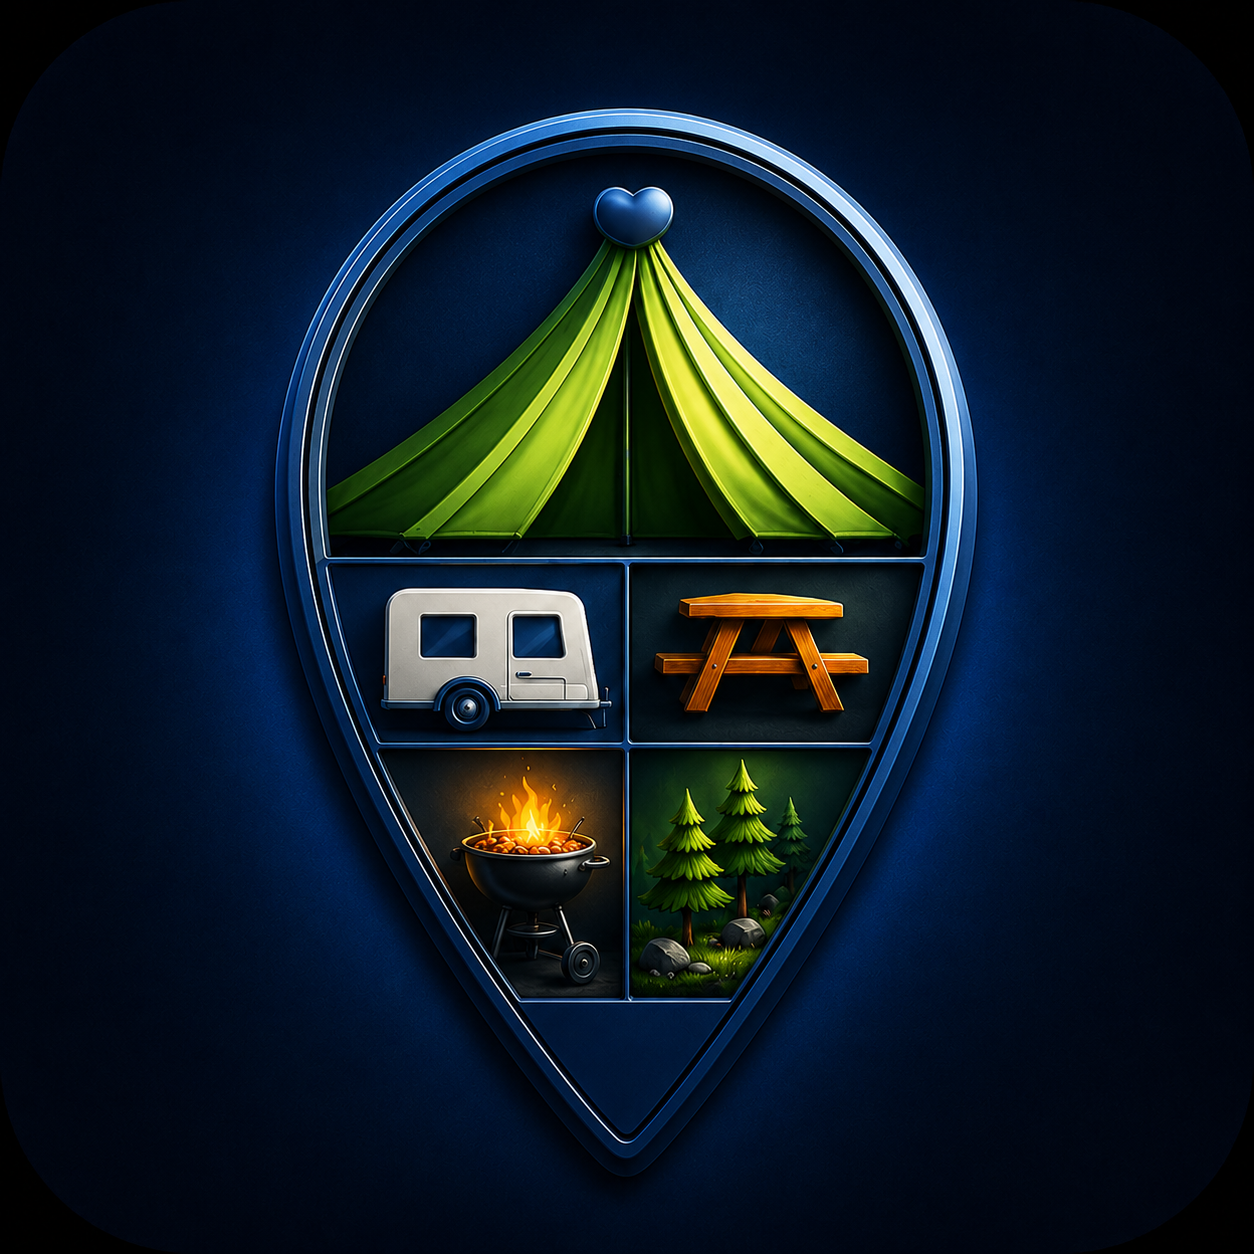
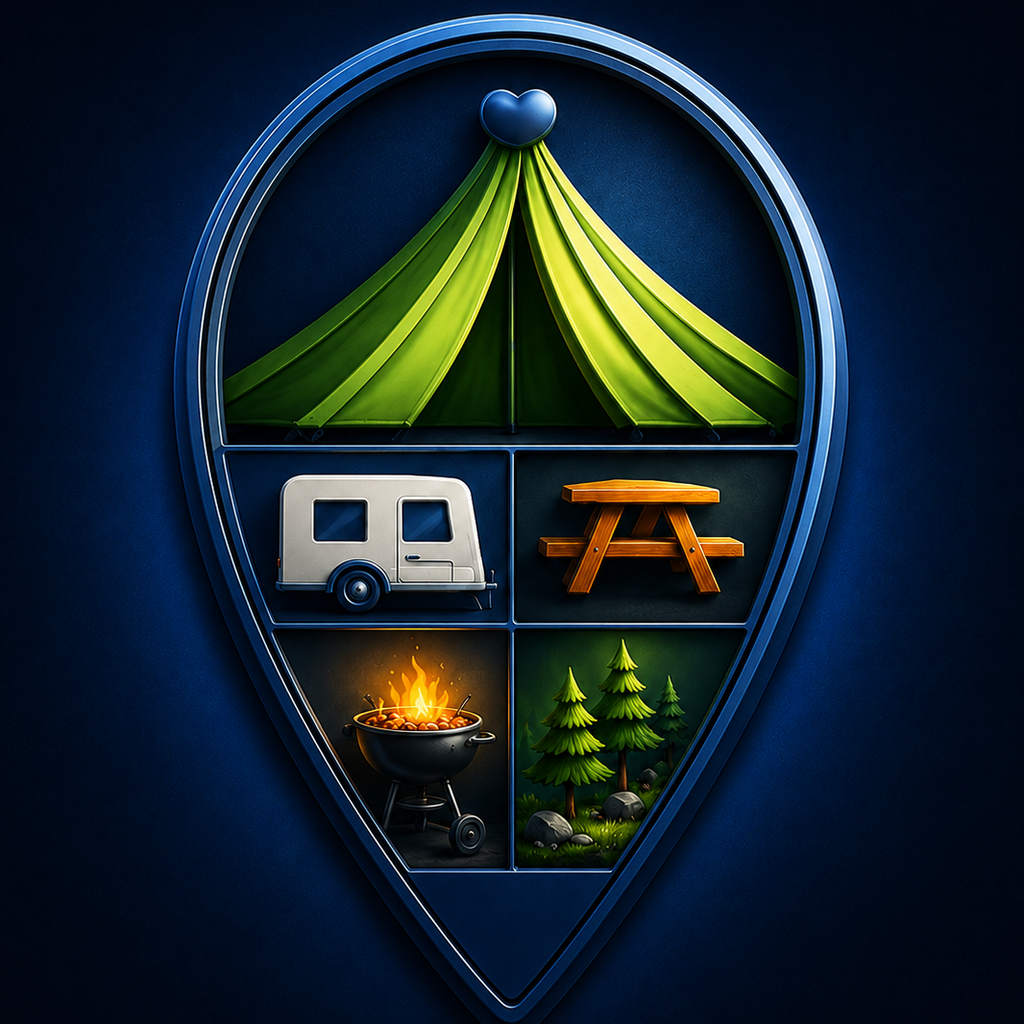
Gerçek marka görsellerinden platform varlıklarını türet

diff --git a/apps/mobile/assets/brand/generate.py b/apps/mobile/assets/brand/generate.py
@@ -1,71 +1,126 @@
-"""Campulator marka varlıklarını üretir (pin + çadır + hesap makinesi tuşları)."""
+"""
+Marka varlıklarını kaynak dosyalardan türetir.
+
+Kaynaklar (tasarımdan gelen, elle güncellenen dosyalar):
+  source/icon-art.png    Kare ikon çalışması (opak, köşeleri yuvarlatılmış)
+  source/wordmark.png    Pin + "Campulator" yazısı (şeffaf zeminli)
+
+Üretilenler (koda bağlı, elle düzenlenmemeli):
+  icon.png, adaptive-icon.png, splash-icon.png, logo.png, favicon.png
+
+Çalıştırma:
+  cd apps/mobile/assets/brand && python3 generate.py
+"""
+
 import os
-from PIL import Image, ImageDraw
 
-NAVY = (30, 58, 95)
-ELEVATED = (18, 35, 56)
-BACKGROUND = (8, 19, 31)
-PRIMARY = (120, 192, 67)
-PRIMARY_BRIGHT = (142, 209, 79)
-TEXT = (244, 247, 250)
+from PIL import Image
 
-SS = 4  # supersampling
+HERE = os.path.dirname(os.path.abspath(__file__))
+SRC = os.path.join(HERE, 'source')
+
+# Tema paleti (src/theme/tokens.ts ile aynı)
+BACKGROUND = (8, 19, 31, 255)
+
+# Kaynak ikon çalışmasının köşeleri yuvarlatılmış olduğu için kenarlardan
+# bu oranda kırpılır; aksi halde iOS maskesi altında siyah köşeler görünür.
+CORNER_TRIM = 0.075
 
 
-def draw_logo(size, pad_ratio=0.0, bg=None):
-    """viewBox 0 0 100 125 tabanlı logoyu kare tuvale ortalar."""
-    S = size * SS
-    img = Image.new("RGBA", (S, S), bg if bg else (0, 0, 0, 0))
-    d = ImageDraw.Draw(img)
+def load(name):
+    path = os.path.join(SRC, name)
+    if not os.path.exists(path):
+        raise SystemExit(f'Kaynak dosya yok: {path}')
+    return Image.open(path).convert('RGBA')
 
-    inner = S * (1 - 2 * pad_ratio)
-    scale = inner / 125.0
-    ox = (S - 100 * scale) / 2
-    oy = (S - 125 * scale) / 2
 
-    def p(x, y):
-        return (ox + x * scale, oy + y * scale)
+def trimmed_art():
+    """İkon çalışmasını yuvarlak köşelerinden arındırıp kare döner."""
+    art = load('icon-art.png')
+    w, h = art.size
+    dx, dy = int(w * CORNER_TRIM), int(h * CORNER_TRIM)
+    art = art.crop((dx, dy, w - dx, h - dy))
+    side = min(art.size)
+    left = (art.size[0] - side) // 2
+    top = (art.size[1] - side) // 2
+    return art.crop((left, top, left + side, top + side))
 
-    def poly(points, fill):
-        d.polygon([p(x, y) for x, y in points], fill=fill)
 
-    def pin(inset, fill):
-        """Pin silueti: daire + aşağı doğru uç, tek parça."""
-        d.ellipse([p(6 + inset, 4 + inset), p(94 - inset, 92 - inset)], fill=fill)
-        poly([(20 + inset, 68), (80 - inset, 68), (50, 121 - inset * 1.4)], fill)
+def opaque_square(art, size, scale=1.0):
+    """Opak lacivert zemin üzerine ortalanmış kare varlık."""
+    canvas = Image.new('RGBA', (size, size), BACKGROUND)
+    inner = int(size * scale)
+    canvas.alpha_composite(art.resize((inner, inner), Image.LANCZOS), ((size - inner) // 2,) * 2)
+    return canvas.convert('RGB')
 
-    pin(0, ELEVATED)  # ince dış çerçeve
-    pin(3, NAVY)  # gövde
-    d.ellipse([p(15, 13), p(85, 83)], fill=BACKGROUND)  # iç disk
 
-    # Çadır
-    poly([(50, 18), (22, 52), (78, 52)], PRIMARY)
-    poly([(50, 18), (36, 52), (64, 52)], PRIMARY_BRIGHT)
-    poly([(50, 30), (42, 52), (58, 52)], BACKGROUND)
+def transparent_square(art, size, scale=1.0):
+    """Şeffaf tuval üzerine ortalanmış varlık (adaptif ikon ön katmanı)."""
+    canvas = Image.new('RGBA', (size, size), (0, 0, 0, 0))
+    inner = int(size * scale)
+    canvas.alpha_composite(art.resize((inner, inner), Image.LANCZOS), ((size - inner) // 2,) * 2)
+    return canvas
 
-    # Hesap makinesi tuşları
-    r = max(1, int(2 * scale))
-    for x, y in ((32, 56), (52, 56), (32, 68), (52, 68)):
-        d.rounded_rectangle([p(x, y), p(x + 16, y + 9)], radius=r, fill=TEXT)
 
-    return img.resize((size, size), Image.LANCZOS)
+def alpha_bbox(image, threshold=60):
+    """Hafif parlama piksellerini saymadan görünür alanın sınırları."""
+    mask = image.getchannel('A').point(lambda v: 255 if v > threshold else 0)
+    return mask.getbbox()
+
+
+def first_gap_column(mask, start):
+    """Pin ile yazı arasındaki boş sütun aralığının başlangıcını bulur."""
+    px = mask.load()
+    width, height = mask.size
+    run = 0
+    for x in range(start, width):
+        empty = all(px[x, y] == 0 for y in range(height))
+        run = run + 1 if empty else 0
+        if run >= 20:
+            return x - run + 1
+    return width
+
+
+def pin_from_wordmark():
+    """Wordmark'ın solundaki pini yazıdan ayırıp şeffaf zeminle keser."""
+    mark = load('wordmark.png')
+    mask = mark.getchannel('A').point(lambda v: 255 if v > 60 else 0)
+    box = mask.getbbox()
+    if not box:
+        raise SystemExit('Wordmark içinde içerik bulunamadı')
+    # Yazı pinin hemen sağında başladığı için sabit yarı kesme yetmez
+    split = first_gap_column(mask, box[0] + 40)
+    pin = mark.crop((box[0], box[1], split, box[3]))
+
+    # Kare tuvale ortala (uygulama içi logo kare kullanılıyor)
+    side = max(pin.size)
+    square = Image.new('RGBA', (side, side), (0, 0, 0, 0))
+    square.alpha_composite(pin, ((side - pin.size[0]) // 2, (side - pin.size[1]) // 2))
+    return square
 
 
 def main():
-    out = os.path.join(os.path.dirname(__file__), "brand")
-    os.makedirs(out, exist_ok=True)
+    art = trimmed_art()
 
-    # App Store / Play ikonu: opak zemin zorunlu (şeffaflık reddedilir)
-    draw_logo(1024, pad_ratio=0.10, bg=BACKGROUND + (255,)).save(f"{out}/icon.png")
-    # Android adaptive: güvenli alan için daha fazla boşluk, şeffaf zemin
-    draw_logo(1024, pad_ratio=0.22).save(f"{out}/adaptive-icon.png")
-    # Splash: şeffaf, ortada
-    draw_logo(1024, pad_ratio=0.18).save(f"{out}/splash-icon.png")
-    # Uygulama içi logo (şeffaf)
-    draw_logo(512, pad_ratio=0.04).save(f"{out}/logo.png")
+    # iOS/Android mağaza ikonu: opak, kenardan kenara
+    opaque_square(art, 1024).save(os.path.join(HERE, 'icon.png'))
+
+    # Android adaptif ikon: ön katman şeffaf olmalı (zemin app.json'da tanımlı),
+    # dış alan kırpılabildiği için pin güvenli alana sığacak şekilde küçültülür
+    transparent_square(pin_from_wordmark(), 1024, scale=0.62).save(
+        os.path.join(HERE, 'adaptive-icon.png')
+    )
+
     # Web favicon
-    draw_logo(48, pad_ratio=0.06, bg=BACKGROUND + (255,)).save(f"{out}/favicon.png")
-    print("üretildi:", sorted(os.listdir(out)))
+    opaque_square(art, 64).save(os.path.join(HERE, 'favicon.png'))
+
+    # Pin, şeffaf zeminde. Wordmark'taki "Campulator" yazısı koyu lacivert
+    # olduğu için koyu açılış ekranında okunmuyor; splash'te de pin kullanılır.
+    pin = pin_from_wordmark()
+    pin.resize((1024, 1024), Image.LANCZOS).save(os.path.join(HERE, 'splash-icon.png'))
+    pin.resize((512, 512), Image.LANCZOS).save(os.path.join(HERE, 'logo.png'))
+
+    print('Üretildi:', ', '.join(sorted(f for f in os.listdir(HERE) if f.endswith('.png'))))
 
 
 main()

diff --git a/apps/mobile/assets/brand/README.md b/apps/mobile/assets/brand/README.md
@@ -1,49 +1,51 @@
 # Marka Görselleri
 
-## Gerçek logoları nereye koymalı
+## Nasıl güncellenir
 
-Bu klasöre (`apps/mobile/assets/brand/`) **aşağıdaki tablodaki adlarla** koyun ve
-mevcut dosyaların üzerine yazın. Kod bu adlara bağlı olduğu için başka hiçbir
-değişiklik gerekmez — `app.json` ve `BrandLogo.tsx` olduğu gibi çalışmaya devam eder.
+Tasarımdan gelen dosyalar **`source/` klasörüne** konur; kullanılan varlıklar
+`generate.py` ile bunlardan türetilir. Kök klasördeki PNG'ler üretim çıktısıdır,
+elle düzenlenmemelidir.
 
-```bash
-# örnek: masaüstündeki dosyaları yerleştirme
-cp ~/Desktop/campulator-icon.png   apps/mobile/assets/brand/icon.png
-cp ~/Desktop/campulator-logo.png   apps/mobile/assets/brand/logo.png
-git add apps/mobile/assets/brand && git commit -m "Gerçek marka görselleri" && git push
-```
-
-Sonrasında Metro'yu `--clear` ile yeniden başlatın (varlıklar önbelleğe alınır).
-Elinizde yalnızca tek bir kare logo varsa onu `logo.png` olarak koymanız yeterli;
-kalan boyutlar `generate.py` yerine bu dosyadan türetilebilir.
-
-## Dosyalar
-
-| Dosya                | Kullanım                            | Boyut     | Zemin  |
-| -------------------- | ----------------------------------- | --------- | ------ |
-| `icon.png`           | iOS/Android uygulama ikonu          | 1024×1024 | Opak   |
-| `adaptive-icon.png`  | Android adaptif ikon ön katmanı     | 1024×1024 | Şeffaf |
-| `splash-icon.png`    | Açılış ekranı görseli               | 1024×1024 | Şeffaf |
-| `logo.png`           | Uygulama içi logo (`BrandLogo.tsx`) | 512×512   | Şeffaf |
-| `favicon.png`        | Web favicon                         | 48×48     | Opak   |
-
-Bu dosyalar `app.json` içindeki `icon`, `splash.image`, `android.adaptiveIcon`
-ve `web.favicon` alanlarına bağlıdır.
-
-## Yeniden üretme
-
-Görseller `generate.py` ile vektörel tanımdan üretiliyor (Pillow gerektirir):
+| Kaynak dosya           | İçerik                                              |
+| ---------------------- | --------------------------------------------------- |
+| `source/icon-art.png`  | Kare ikon çalışması (opak zemin, köşeler yuvarlak)  |
+| `source/wordmark.png`  | Pin + "Campulator" yazısı, **şeffaf zeminli**       |
 
 ```bash
+# yeni tasarım dosyalarını yerleştir
+cp ~/Desktop/yeni-ikon.png     apps/mobile/assets/brand/source/icon-art.png
+cp ~/Desktop/yeni-wordmark.png apps/mobile/assets/brand/source/wordmark.png
+
+# varlıkları yeniden üret (Pillow gerekir: pip install pillow)
 cd apps/mobile/assets/brand && python3 generate.py
 ```
 
-Renkler `src/theme/tokens.ts` paletiyle birebir aynıdır. Tasarımcıdan gelen
-gerçek dosyalar elde edildiğinde aynı adlarla üzerine yazmak yeterlidir;
-`app.json` değişikliği gerekmez.
+Sonrasında Metro'yu `--clear` ile yeniden başlatın.
 
-## Notlar
+## Üretilen dosyalar
 
-- iOS ikonu **şeffaf olamaz**; `icon.png` opak lacivert zeminle üretilir.
-- Android adaptif ikonda dış %22'lik alan kırpılabilir; `adaptive-icon.png`
-  bu güvenli alan payıyla üretilmiştir.
+| Dosya               | Kullanım                            | Boyut     | Zemin  |
+| ------------------- | ----------------------------------- | --------- | ------ |
+| `icon.png`          | iOS/Android uygulama ikonu          | 1024×1024 | Opak   |
+| `adaptive-icon.png` | Android adaptif ikon ön katmanı     | 1024×1024 | Şeffaf |
+| `splash-icon.png`   | Açılış ekranı görseli               | 1024×1024 | Şeffaf |
+| `logo.png`          | Uygulama içi logo (`BrandLogo.tsx`) | 512×512   | Şeffaf |
+| `favicon.png`       | Web favicon                         | 64×64     | Opak   |
+
+Bunlar `app.json` içindeki `icon`, `splash.image`, `android.adaptiveIcon` ve
+`web.favicon` alanlarına bağlıdır; dosya adları değişmediği sürece `app.json`
+düzenlenmez.
+
+## Üretim kuralları (neden ham dosyalar doğrudan kullanılmıyor)
+
+- **iOS ikonu şeffaf olamaz** ve köşe yuvarlatmasını sistem kendisi uygular.
+  Kaynak çalışmanın kendi yuvarlak köşeleri kırpılır, aksi halde maskeden sonra
+  siyah köşe artıkları görünür.
+- **Android adaptif ikonun** dış alanı cihaza göre daire/squircle kırpılır.
+  Ön katman şeffaf olmalı ve içerik güvenli alana sığmalıdır; bu yüzden ön
+  katmanda yalnızca pin, %62 ölçekle yerleştirilir. Zemin rengi `app.json`
+  içindeki `adaptiveIcon.backgroundColor` alanından gelir.
+- **Açılış ekranında** wordmark kullanılmaz: yazının rengi koyu lacivert olduğu
+  için koyu splash zemininde okunmuyor. Splash'te de pin kullanılır.
+- **Uygulama içi logo** şeffaf olmalıdır; opak bir kare, koyu arayüzde kutu gibi
+  görünür. Pin, wordmark'tan (zaten şeffaf olan kaynaktan) kesilerek elde edilir.
